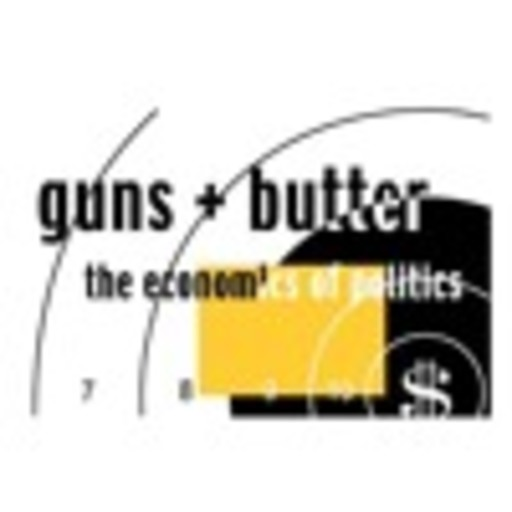
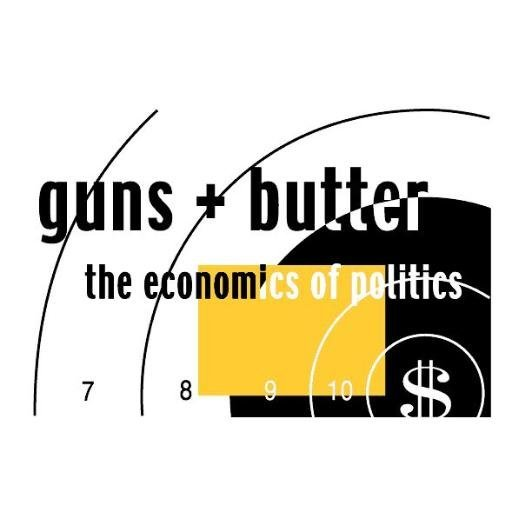
upload

Changed region(s): [[0.0312, 0.1875, 0.9688, 0.8438], [0.625, 0.625, 0.6562, 0.6875], [0.1562, 0.7188, 0.1875, 0.7812]]

diff --git a/addon.py b/addon.py
@@ -13,7 +13,7 @@ def main_menu():
         {
             'label': plugin.get_string(30000),
             'path': plugin.url_for('episodes'),
-            'thumbnail': "https://i1.sndcdn.com/avatars-000132567928-4i1ipn-large.jpg"},
+            'thumbnail': "https://i1.sndcdn.com/avatars-000132567928-4i1ipn-original.jpg"},
     ]
     return items
 
